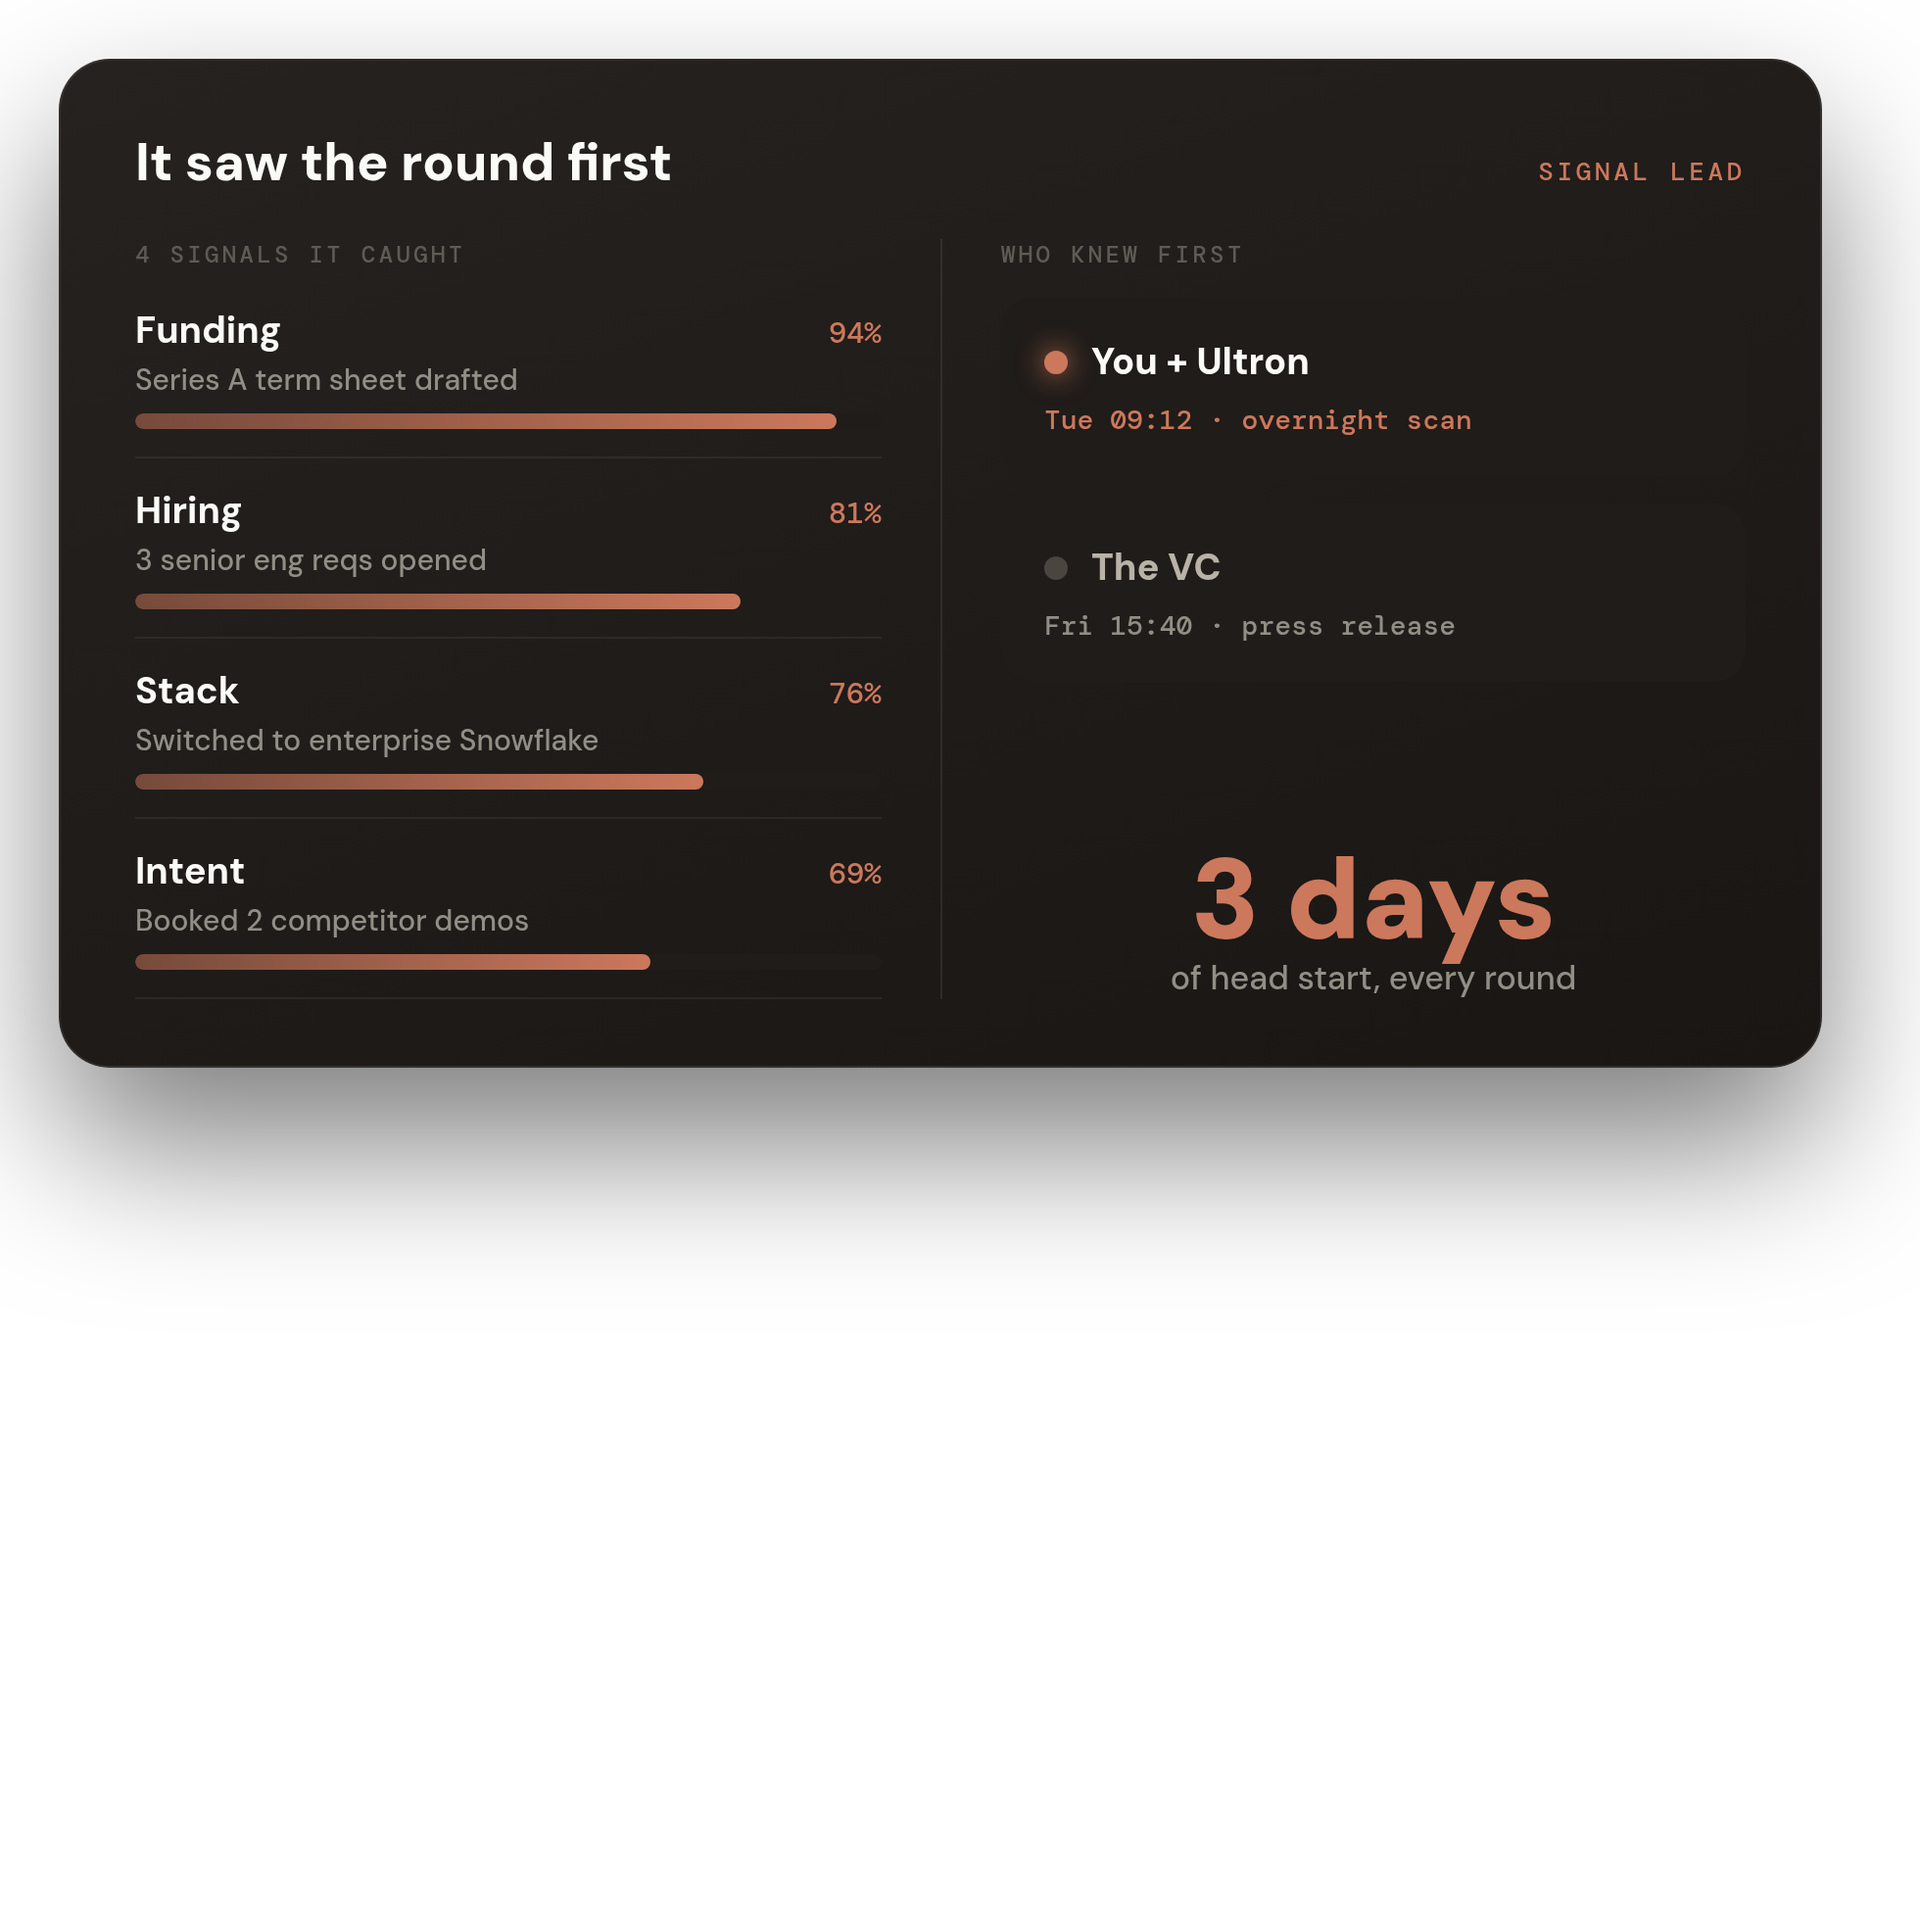
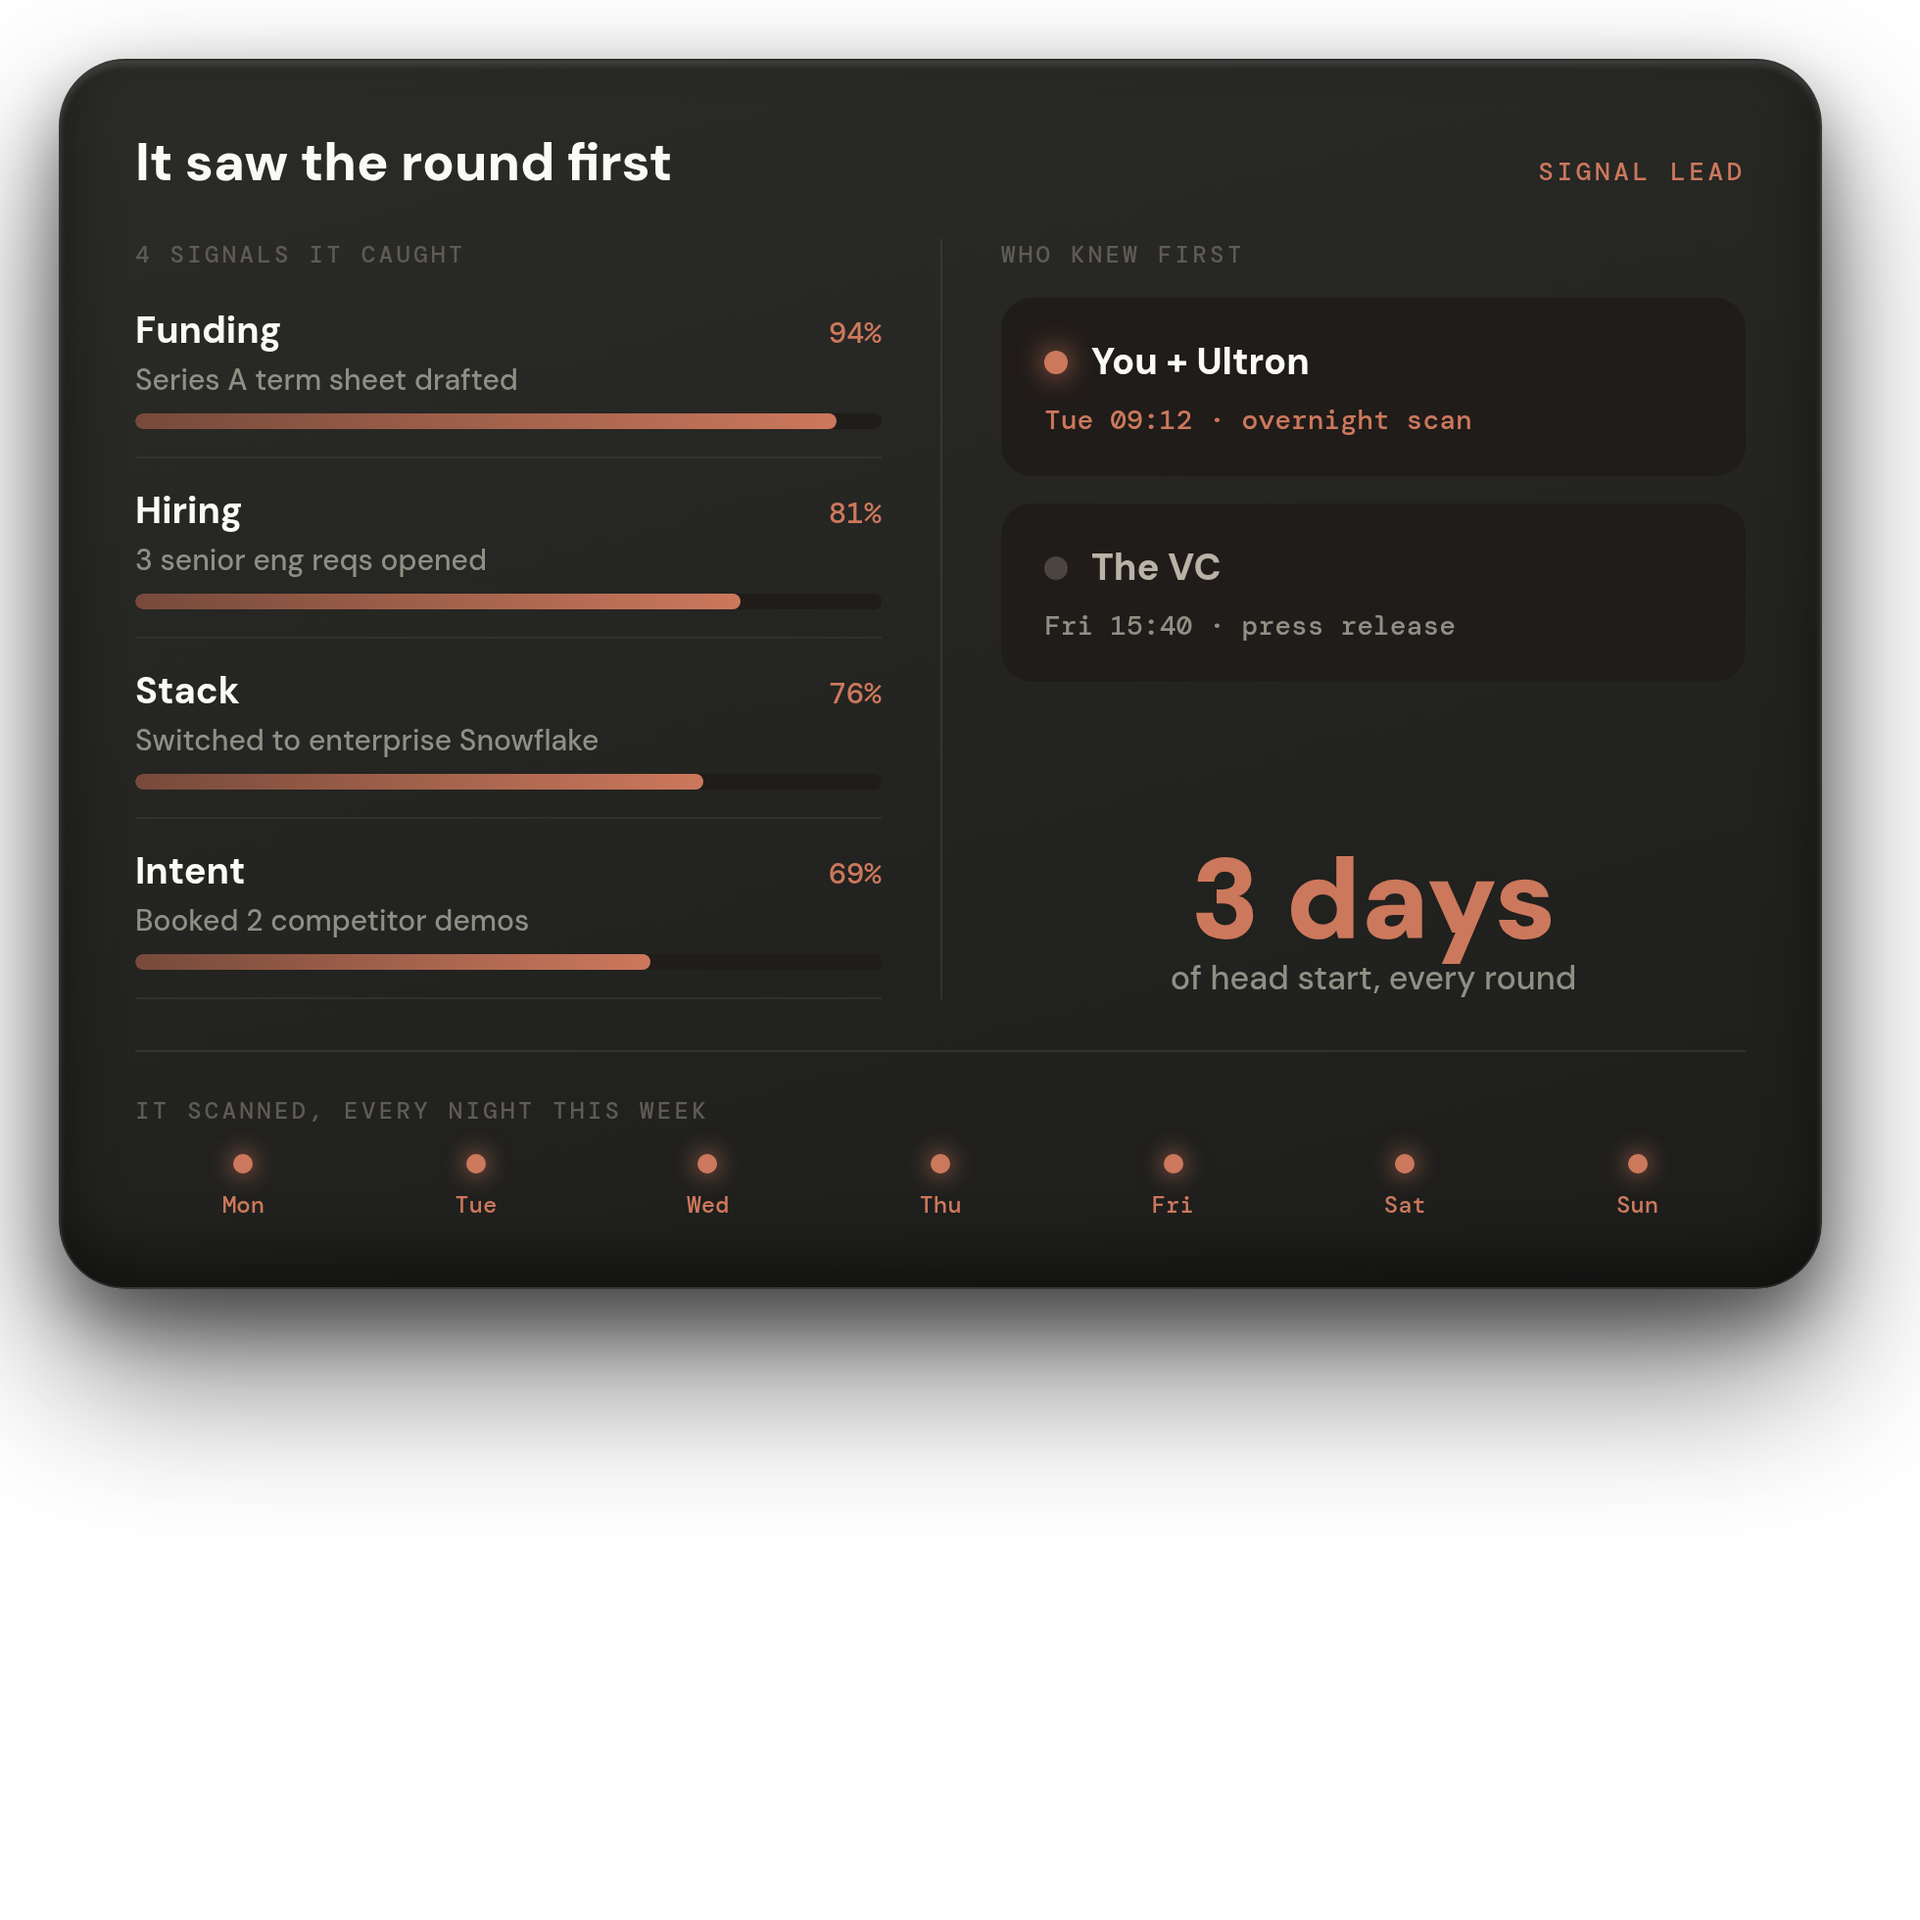
Model panel: Tier-3 finish (B.CARD) + timeline, left-align at MX, safe right<=840, aligned progress bar
Claude-Session: https://claude.ai/code/session_014kd6D8JB5VW3pfqpgRb2H7

Changed region(s): [[0.0, 0.0311, 0.9959, 0.7781], [0.0311, 0.0311, 0.0622, 0.0622]]

diff --git a/content/_hitl-src/model_panel.py b/content/_hitl-src/model_panel.py
@@ -4,7 +4,7 @@
 import importlib.util
 t=importlib.util.spec_from_file_location("B","/home/user/tiberiu-claude/content/_hitl-src/t3base.py")
 B=importlib.util.module_from_spec(t); t.loader.exec_module(B)
-MUT=B.MUT; DIM=B.DIM; A="204,120,92"
+MUT=B.MUT; DIM=B.DIM; CARD=B.CARD; A="204,120,92"
 
 # a real, dense "signal lead" panel: 4 detected signals (left, each a row with source+value+bar),
 # a 2-lane race (you-vs-VC) with milestones, and a head-start stat block. Every zone carries content.
@@ -24,7 +24,12 @@ rows="".join(
   for n,d,v in SIGNALS)
 
 def model():
-    return f'''<div style="width:900px;background:linear-gradient(160deg,#26221f,#191614);border:1px solid rgba(255,255,255,.08);border-radius:26px;padding:34px 38px;box-shadow:0 40px 80px rgba(0,0,0,.5)">
+    tl="".join(
+      f'<div style="flex:1;text-align:center"><div style="width:10px;height:10px;border-radius:50%;'
+      f'background:{"rgb("+A+")" if on else "#3a352f"};margin:0 auto 8px;{"box-shadow:0 0 12px rgb("+A+")" if on else ""}"></div>'
+      f'<div style="font-family:DM Mono;font-size:12px;color:{"rgb("+A+")" if on else DIM}">{d}</div></div>'
+      for d,on in [("Mon",1),("Tue",1),("Wed",1),("Thu",1),("Fri",1),("Sat",1),("Sun",1)])
+    return f'''<div style="width:900px;{CARD};padding:34px 38px">
       <div style="display:flex;align-items:baseline;justify-content:space-between;margin-bottom:22px">
         <span style="font-family:DM Sans;font-weight:800;font-size:27px;color:#FAFAF7">It saw the round first</span>
         <span style="font-family:DM Mono;font-size:13px;letter-spacing:.14em;color:rgb({A})">SIGNAL LEAD</span></div>
@@ -47,7 +52,10 @@ def model():
             <div style="font-family:DM Sans;font-weight:900;font-size:58px;color:rgb({A});line-height:1">3 days</div>
             <div style="font-family:DM Sans;font-size:17px;color:{MUT}">of head start, every round</div></div>
         </div>
-      </div></div>'''
+      </div>
+      <div style="margin-top:26px;padding-top:22px;border-top:1px solid rgba(255,255,255,.08)">
+        <div style="font-family:DM Mono;font-size:12px;letter-spacing:.14em;color:{DIM};margin-bottom:14px">IT SCANNED, EVERY NIGHT THIS WEEK</div>
+        <div style="display:flex;gap:8px">{tl}</div></div></div>'''
 
 if __name__=="__main__":
     B.render("_model",{"model":model()})

diff --git a/content/_hitl-src/build_ed45.py b/content/_hitl-src/build_ed45.py
@@ -34,7 +34,7 @@ def ghost(base,num):
 def progress(d,page,n):
     # symmetric inset sized for the LARGER TikTok action-icon rail so ONE deck works on both TikTok + IG
     # (operator: TikTok icons are bigger; one standard, no per-channel slides). right end ~880.
-    pm=200; x0,x1=pm,W-pm; yb=H-56; d.rounded_rectangle([x0,yb,x1,yb+7],radius=4,fill=TRACK)
+    x0,x1=MX,840; yb=H-56; d.rounded_rectangle([x0,yb,x1,yb+7],radius=4,fill=TRACK)  # start aligned with text/element (MX), end at safe right
     d.rounded_rectangle([x0,yb,x0+int((x1-x0)*page/n),yb+7],radius=4,fill=ACC)
 def footer(base):
     d=ImageDraw.Draw(base); y=H-70
@@ -425,10 +425,10 @@ def place_prem(base,objpath,light,ytop=None):
         #  2. TOP-anchored right under the sub-hook (no dead gap above).
         #  3. The element FILLS this working band; wide-short panels can only do that if the Tier-3
         #     panels are drawn tall (aspect ~1.2) in the _t3.py sources (redesign, do not stretch).
-        # CENTERED in the frame (operator: "centreaza elementul"), fills the working band top->bottom.
-        # Carousels do not overlay the icon rail, so the element can be wide + centred.
+        # LEFT-aligned with the text (left edge = MX 112) and kept inside the safe zone (right <= 840,
+        # clears the icon rail). Top-anchored, fills the band. cx=470 -> panel spans ~[112,828].
         zy0=max(500,(ytop or 500))
-        T2.place_in_zone(base,im0,(96,zy0,984,1200),fill=1.0,valign="top")
+        T2.place_in_zone(base,im0,(112,zy0,840,1200),fill=1.0,cx=470,valign="top")
         return
     im=im0.convert("RGB")
     a=np.asarray(im).astype(int); h,w=a.shape[:2]; area=h*w
